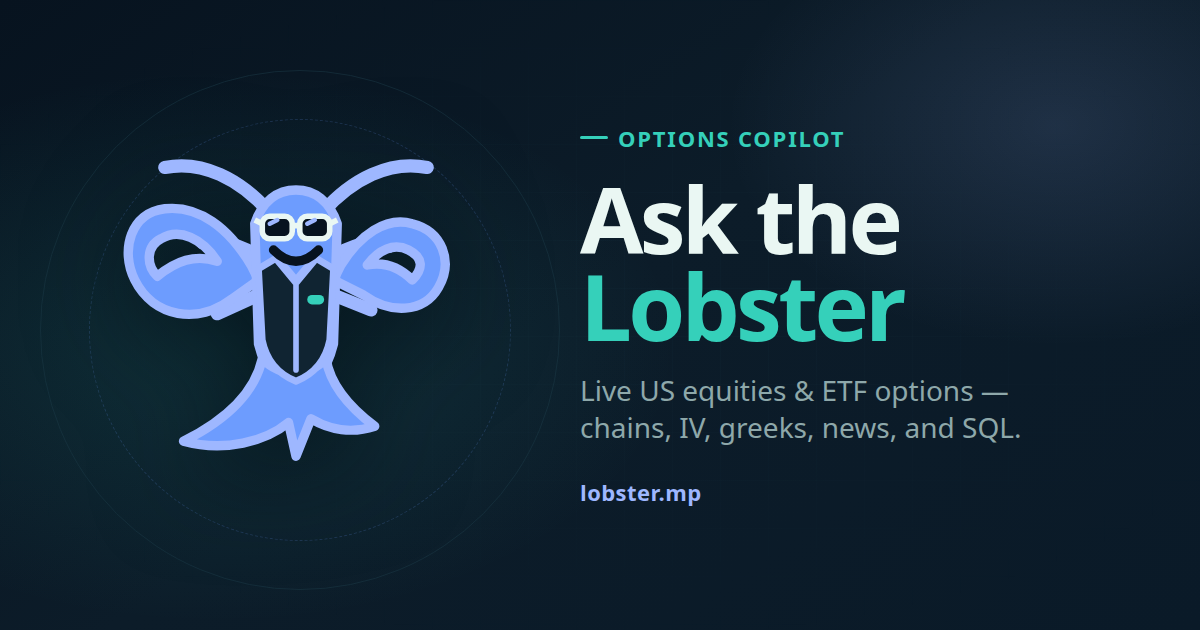
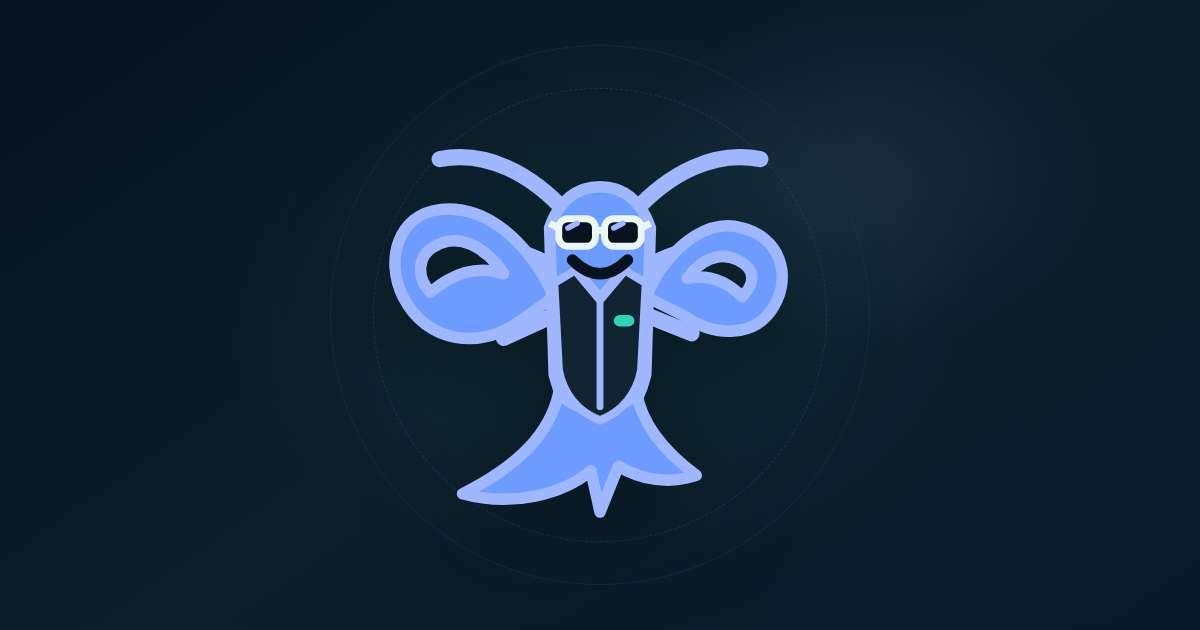
feat: make OG share image lobster-only
Drop the Ask the Lobster copy from the 1200×630 card so the mascot is
the sole visual; refresh og.svg alt text to match.

Changed region(s): [[0.0925, 0.2111, 0.8633, 0.8143], [0.8633, 0.1508, 0.925, 0.2413]]

diff --git a/frontend/index.html b/frontend/index.html
@@ -31,7 +31,7 @@
     <meta property="og:image:height" content="630" />
     <meta
       property="og:image:alt"
-      content="Blue lobster mascot in sunglasses beside Ask the Lobster — Options Copilot"
+      content="Blue lobster mascot in sunglasses"
     />
 
     <!-- Twitter / X -->
@@ -44,7 +44,7 @@
     <meta name="twitter:image" content="https://lobster.mp/og.png" />
     <meta
       name="twitter:image:alt"
-      content="Blue lobster mascot in sunglasses beside Ask the Lobster — Options Copilot"
+      content="Blue lobster mascot in sunglasses"
     />
   </head>
   <body>
